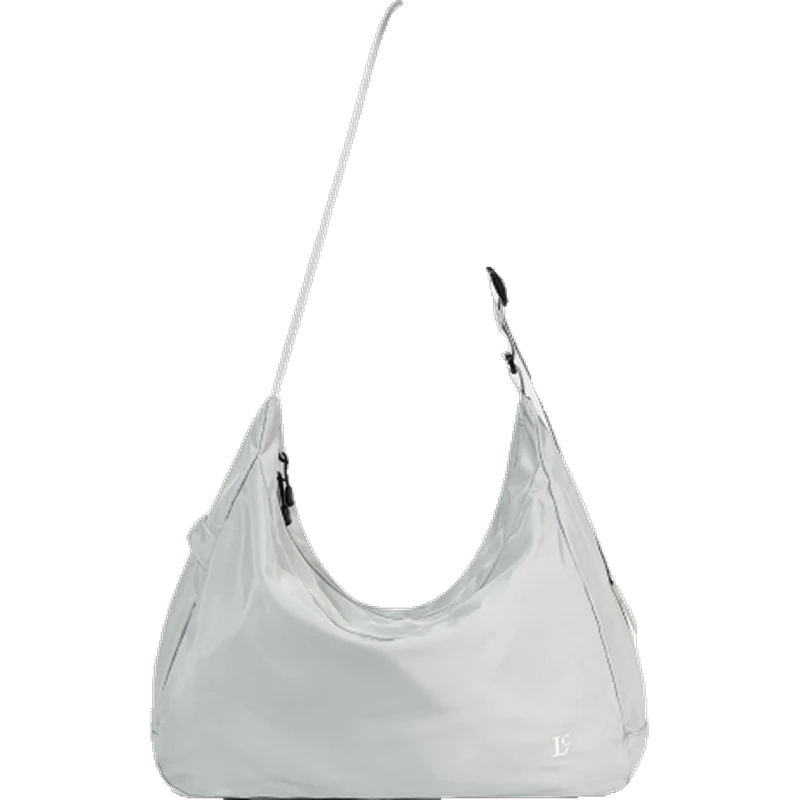
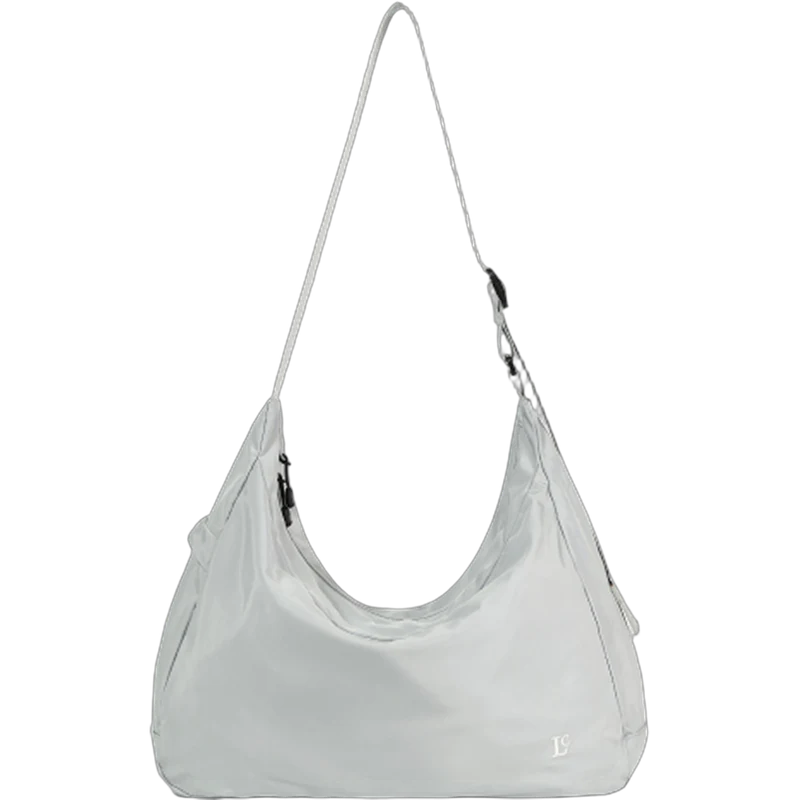
Mobile feedback: zoomable factory photos, left-aligned last cards, uncut mat05 strap, contact dropdown footer

diff --git a/src/style.css b/src/style.css
@@ -163,11 +163,14 @@ form button{grid-column:1/3;margin-top:6px;font:600 15px 'Pretendard Variable',P
 /* 10 footer: bag + scroll odometer */
 footer{position:relative;height:100vh;min-height:620px;background:var(--dawn);overflow:hidden}
 footer .bag{position:absolute;left:50%;top:44%;width:min(30vw,400px);transform:translate(-50%,-50%) rotate(-4deg);filter:drop-shadow(0 30px 30px rgba(0,0,0,.18))}
-footer .odo{position:absolute;left:28px;bottom:6vh;display:grid;gap:14px}
+footer .odo{position:absolute;left:28px;bottom:calc(6vh + 28px);display:grid;gap:14px}
 footer .odo b{display:block;font:400 34px 'Pretendard Variable',Pretendard,sans-serif;letter-spacing:-.02em;text-transform:none}
-footer .links{position:absolute;right:28px;bottom:6vh;display:grid;grid-template-columns:auto auto;gap:6px 48px;font-size:14px;line-height:1.7}
-footer .links .mono{opacity:.55;margin-bottom:4px}
-footer .links a{cursor:pointer}
+footer .links{position:absolute;right:28px;bottom:calc(6vh + 28px);font-size:14px;line-height:1.7}
+footer .links summary{cursor:pointer;list-style:none;opacity:.7}
+footer .links summary::-webkit-details-marker{display:none}
+footer .links summary::after{content:' +'}footer .links[open] summary::after{content:' −'}
+footer .links a{display:block;margin-top:6px}
+footer .biz{position:absolute;left:28px;right:28px;bottom:14px;font-size:11px;line-height:1.6;opacity:.55}
 
 @media(max-width:820px){
   :root{--dw:78vw}
@@ -180,7 +183,7 @@ footer .links a{cursor:pointer}
   .map .card{left:28px;right:28px;width:auto;top:auto;bottom:12vh}
   .rg,.journal,.contact .wrap{grid-template-columns:1fr} .journal h2{grid-column:1} .journal .list a{grid-template-columns:1fr 96px} .journal .list img{width:96px}
   form{grid-template-columns:1fr} form .full,form button{grid-column:1}
-  footer .bag{width:60vw;top:34%} footer .links{left:28px;right:auto;bottom:28vh}
+  footer .bag{width:60vw;top:34%} footer .links{left:16px;right:auto;bottom:calc(6vh + 190px)} footer .odo{left:16px} footer .biz{left:16px;right:16px}
 }
 .hero .frame:before{content:"";position:absolute;inset:0;z-index:1;background:linear-gradient(rgba(0,0,0,.45),transparent 35%);pointer-events:none}.hero h1,.hero .sub,.hero .btn{z-index:2}
 
@@ -267,7 +270,7 @@ footer .links a{cursor:pointer}
 .net .nt .mono{color:var(--accent)}
 .net .nt p{margin-top:10px;font-size:15px;line-height:1.75;color:var(--stone);max-width:560px}
 .net .ns{display:grid;grid-template-columns:repeat(7,1fr);gap:6px;margin-top:5vh}
-.net .ns img{width:100%;aspect-ratio:1;object-fit:cover;border-radius:8px}
+.net .ns img{width:100%;aspect-ratio:1;object-fit:cover;border-radius:8px;cursor:zoom-in}
 .pgd{display:grid;grid-template-columns:repeat(9,1fr);gap:6px}
 .pgd div{background:#fff;border-radius:8px;aspect-ratio:1;display:flex;align-items:center;justify-content:center;overflow:hidden}
 .pgd img{width:100%;height:100%;object-fit:contain;transition:transform .5s cubic-bezier(.2,.8,.2,1)}
@@ -286,7 +289,7 @@ footer .links a{cursor:pointer}
 .cg p{font-size:14px;line-height:1.6;color:var(--stone)}
 .caps .hint{margin-top:3vh;color:var(--stone)}
 @media(max-width:820px){.vision .vg{grid-template-columns:1fr}.vision ol{grid-template-columns:1fr}.pg{grid-template-columns:1fr 1fr}.cmp .row{grid-template-columns:1fr}.cmp .row p{grid-column:1}.cmp em{font-size:11px}.cmp .bar i{padding:0 6px}.net .nt{grid-template-columns:1fr}.net .ns{grid-template-columns:repeat(4,1fr)}.pgd{grid-template-columns:repeat(4,1fr)}.cg{grid-template-columns:1fr 1fr}.vision,.pps,.products,.caps,.net{padding-left:16px;padding-right:16px}}
-@media(max-width:820px){.cmp .bar{flex-direction:column;height:auto}.cmp .bar i{flex:none!important;height:38px;flex-direction:row;justify-content:space-between;align-items:center;padding:0 12px}.cmp .bar i.gap{display:none}.cmp em{font-size:13px}.cg figure:last-child{grid-column:1/3}.cg figure:last-child .im{aspect-ratio:2/1}}
+@media(max-width:820px){.cmp .bar{flex-direction:column;height:auto}.cmp .bar i{flex:none!important;height:38px;flex-direction:row;justify-content:space-between;align-items:center;padding:0 12px}.cmp .bar i.gap{display:none}.cmp em{font-size:13px}}
 .pgd div{background:none;border-radius:0}.cg .im{background:none}.cg .im img:not(.b){object-fit:contain;filter:drop-shadow(0 18px 18px rgba(15,26,22,.10))}.pgd img{filter:drop-shadow(0 12px 12px rgba(15,26,22,.08))}.cg .im img.b{border-radius:10px}
 .pgd div{overflow:visible;position:relative}.pgd img{transition:transform .45s cubic-bezier(.2,.8,.2,1),filter .45s}.pgd div:hover{z-index:3}.pgd div:hover img{transform:scale(1.4);filter:drop-shadow(0 24px 22px rgba(15,26,22,.18))}@media(prefers-reduced-motion:reduce){.pgd div:hover img{transform:none}}
 .pfeat{display:grid;grid-template-columns:repeat(3,1fr);gap:10px;margin-bottom:6vh}.pfeat a{display:block;text-align:center}.pfeat .im{aspect-ratio:1;display:flex;align-items:center;justify-content:center}.pfeat img{width:78%;height:78%;object-fit:contain;filter:drop-shadow(0 18px 18px rgba(15,26,22,.10));transition:transform .45s cubic-bezier(.2,.8,.2,1)}.pfeat a:hover img{transform:scale(1.12)}.pfeat .mono{display:block;color:var(--accent);margin-top:6px}.pfeat b{display:block;font-size:17px;font-weight:600;margin-top:6px}@media(max-width:820px){.pfeat{grid-template-columns:repeat(3,1fr);gap:6px}.pfeat b{font-size:13px}}

diff --git a/src/app.js b/src/app.js
@@ -135,8 +135,12 @@ document.body.appendChild(lb);
 const gvis=()=>gItems.filter(it=>!it.classList.contains('hide')).map(it=>+it.dataset.i);  // lightbox browses the whole filtered set, not just the revealed batch
 function gshow(i){cur=i;const g=G[i];lbm.innerHTML=g.type==='photo'?`<img src="gallery/${g.id}.jpg" alt="">`:`<video src="gallery/${g.id}.mp4" autoplay muted loop playsinline controls></video>`;
   const v=gvis();$('#lbn').textContent=(v.indexOf(i)+1)+' / '+v.length;lb.classList.add('on');lenis.stop()}
-function gstep(d){const v=gvis();gshow(v[(v.indexOf(cur)+d+v.length)%v.length])}
-function gclose(){lb.classList.remove('on');lbm.innerHTML='';lenis.start()}
+// same lightbox for the factory photos under Global (ns = their src list while open)
+const nsImgs=$$('.net .ns img');let ns=null;
+function nshow(i){ns=nsImgs.map(m=>m.src);cur=i;lbm.innerHTML=`<img src="${ns[i]}" alt="">`;$('#lbn').textContent=(i+1)+' / '+ns.length;lb.classList.add('on');lenis.stop()}
+nsImgs.forEach((m,i)=>m.onclick=()=>nshow(i));
+function gstep(d){if(ns)return nshow((cur+d+ns.length)%ns.length);const v=gvis();gshow(v[(v.indexOf(cur)+d+v.length)%v.length])}
+function gclose(){lb.classList.remove('on');lbm.innerHTML='';ns=null;lenis.start()}
 gItems.forEach(it=>it.onclick=()=>gshow(+it.dataset.i));
 lb.querySelector('.x').onclick=gclose;lb.querySelector('.pv').onclick=()=>gstep(-1);lb.querySelector('.nx').onclick=()=>gstep(1);
 lb.onclick=e=>{if(e.target===lb||e.target===lbm)gclose()};

diff --git a/tools/recut_birefnet.py b/tools/recut_birefnet.py
@@ -1,0 +1,21 @@
+"""Re-cut product shots with BiRefNet (keeps thin light straps that isnet drops) and report where it recovers pixels.
+Writes incoming/cutouts/bir_<name>.png; prints names whose solid area grew > 3% vs the current isnet cutout."""
+import json
+from pathlib import Path
+from PIL import Image
+from rembg import new_session, remove
+R = Path(__file__).resolve().parents[2]
+D, CUT = R / 'incoming' / 'figma', R / 'incoming' / 'cutouts'
+L = json.loads((D / 'layout.json').read_text(encoding='utf-8'))
+raw = {p.name.split('_')[2].split('.')[0]: p for p in D.glob('img_*')}
+jobs = [(raw[h], f'pf{i:02d}') for i, (*_, h) in enumerate(L['15'], 1)]
+jobs += [(D / f'x_{k}{i:02d}.jpg', f'{k}{i:02d}') for k in ('cat', 'mat') for i in range(1, 6)]
+jobs += [(p, p.stem) for p in sorted((R / 'incoming' / 'extra').glob('pf*.*'))]
+solid = lambda im: sum(1 for a in im.getchannel('A').get_flattened_data() if a > 128)
+ses = new_session('birefnet-general')
+for src, name in jobs:
+    b = CUT / f'bir_{name}.png'
+    if not b.exists():
+        remove(Image.open(src).convert('RGB'), session=ses).save(b)
+    old, new = solid(Image.open(CUT / f'{name}.png')), solid(Image.open(b))
+    if new > old * 1.03: print(name, old, new, f'+{(new / old - 1) * 100:.0f}%')
